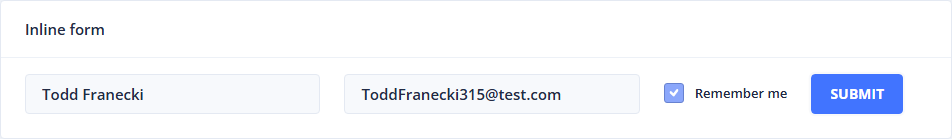
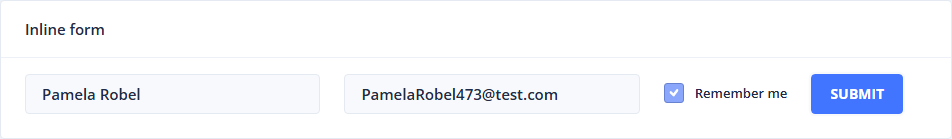
added new comment

Changed region(s): [[0.3655, 0.6331, 0.6092, 0.7194], [0.0305, 0.6331, 0.1523, 0.7194]]

diff --git a/tests/usePageObjects.spec.ts b/tests/usePageObjects.spec.ts
@@ -28,7 +28,7 @@ test('Parametrized methods', async ({ page }) => {
    // const buffer = await page.screenshot()
   //  console.log(buffer.toString('base64'))
     await pm.onFormLayoutPage().submitInlineFormWithNameEmailAndCheckbox(randomFullName, randomEmail, true)
-    await page.locator('nb-card', {hasText: "Inline Form"}).screenshot({path: 'screenshots/inlineForm.png'
+    await page.locator('nb-card', {hasText: "Inline Form"}).screenshot({path: 'screenshots/inlineForm.png'})
 
     })
    // await pm.onFormLayoutPage().submitInlineFormWithNameEmailAndCheckbox('John Smith', 'smith@test.com', true)
@@ -41,4 +41,3 @@ test('Parametrized methods', async ({ page }) => {
     await pm.navigateTo().formLayoutsPage()
     await pm.navigateTo().datePickerPage()
     })
-})
